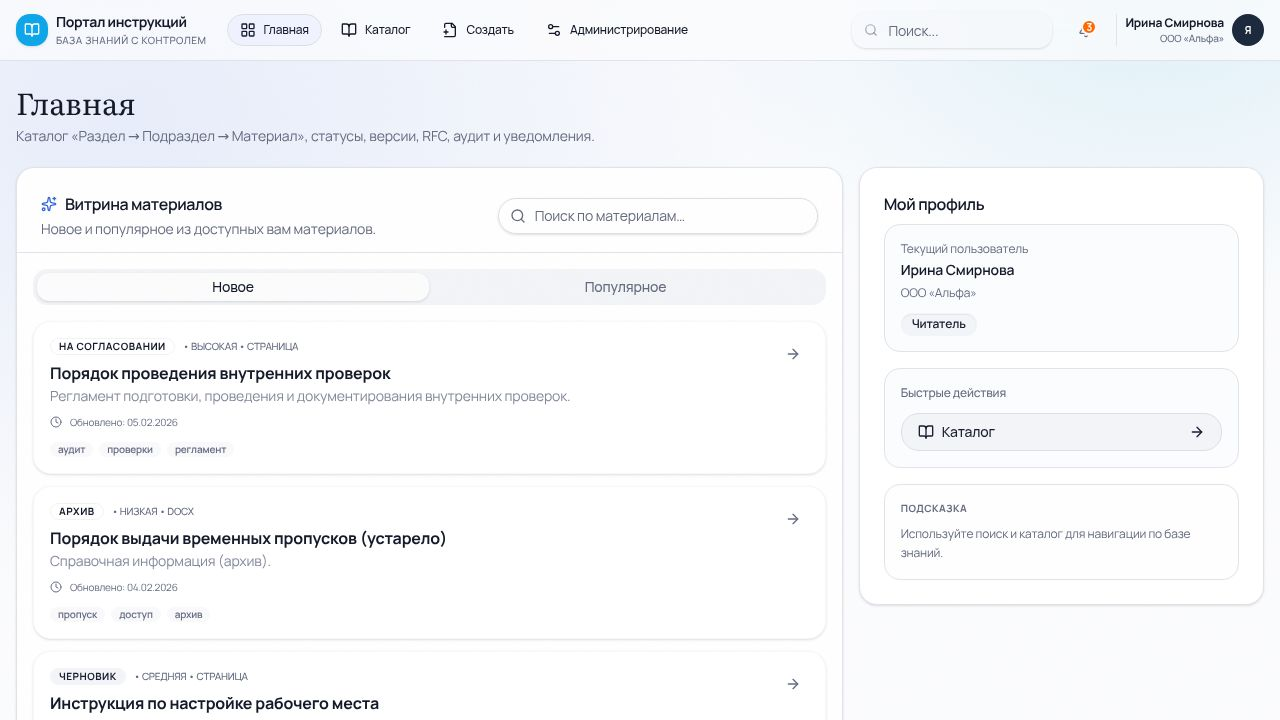
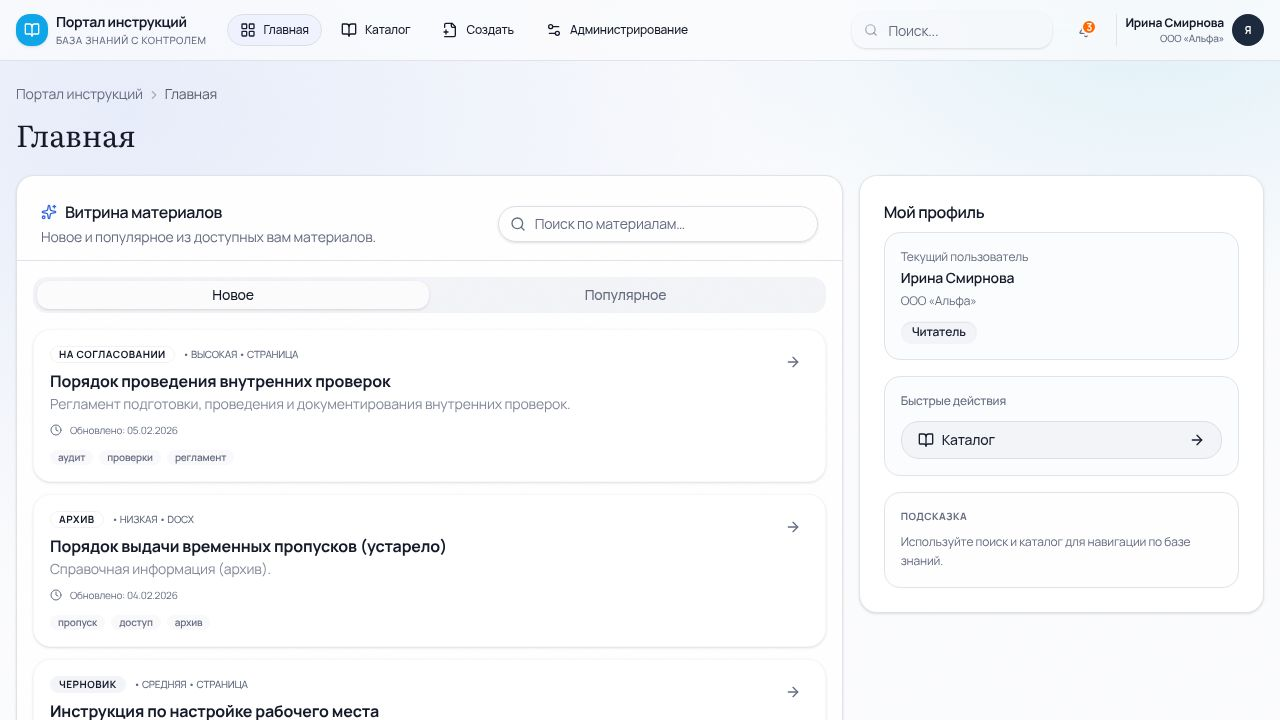
Add breadcrumbs to navigate through the documentation portal
Integrate breadcrumb navigation components into AppShell and apply them to Home, Catalog, Admin, and Material-View pages, enhancing user navigation.

Replit-Commit-Author: Agent
Replit-Commit-Session-Id: 5f0e1606-4719-4190-bb81-36b9deb8bcca
Replit-Commit-Checkpoint-Type: full_checkpoint
Replit-Commit-Event-Id: e5610f33-af44-41aa-825b-11ddc4b73c94
Replit-Commit-Screenshot-Url: https://storage.googleapis.com/screenshot-production-us-central1/b9421ffa-43e4-4408-9767-8521d678e895/5f0e1606-4719-4190-bb81-36b9deb8bcca/5Bn09VN
Replit-Helium-Checkpoint-Created: true

diff --git a/client/src/components/kb/AppShell.tsx b/client/src/components/kb/AppShell.tsx
@@ -4,6 +4,7 @@ import {
   Bell,
   BookOpen,
   Building2,
+  ChevronRight,
   ClipboardCheck,
   FilePlus2,
   LayoutGrid,
@@ -153,18 +154,22 @@ function UserSwitch() {
   );
 }
 
+export type Breadcrumb = { label: string; href?: string };
+
 export function AppShell({
   title,
   children,
   search,
   onSearch,
   actions,
+  breadcrumbs,
 }: {
   title: string;
   children: React.ReactNode;
   search?: string;
   onSearch?: (v: string) => void;
   actions?: React.ReactNode;
+  breadcrumbs?: Breadcrumb[];
 }) {
   const [location] = useLocation();
   const active = useMemo(() => nav.find((n) => n.href === location)?.href, [location]);
@@ -295,14 +300,27 @@ export function AppShell({
       </header>
 
       <main className="mx-auto max-w-7xl px-4 py-6">
+        {breadcrumbs && breadcrumbs.length > 0 && (
+          <nav className="mb-3 flex items-center gap-1 text-sm text-muted-foreground" data-testid="nav-breadcrumbs">
+            {breadcrumbs.map((crumb, i) => (
+              <span key={i} className="flex items-center gap-1">
+                {i > 0 && <ChevronRight className="h-3.5 w-3.5 shrink-0 text-muted-foreground/50" />}
+                {crumb.href ? (
+                  <Link href={crumb.href} className="hover:text-foreground transition-colors">
+                    {crumb.label}
+                  </Link>
+                ) : (
+                  <span className="text-foreground/70">{crumb.label}</span>
+                )}
+              </span>
+            ))}
+          </nav>
+        )}
         <div className="mb-5 flex flex-col gap-3 md:flex-row md:items-end md:justify-between">
           <div>
             <h1 className="font-serif text-3xl leading-tight" data-testid="text-page-title">
               {title}
             </h1>
-            <p className="mt-1 text-sm text-muted-foreground">
-              Каталог «Раздел → Подраздел → Материал», статусы, версии, RFC, аудит и уведомления.
-            </p>
           </div>
           <div className="flex items-center gap-2">{actions}</div>
         </div>

diff --git a/client/src/pages/material-view.tsx b/client/src/pages/material-view.tsx
@@ -28,8 +28,8 @@ import { Tabs, TabsContent, TabsList, TabsTrigger } from "@/components/ui/tabs";
 import { Textarea } from "@/components/ui/textarea";
 import { useToast } from "@/hooks/use-toast";
 import { useKB } from "@/lib/kbStore";
-import { demoUsers, visibilityGroups } from "@/lib/mockData";
-import { canApproveAndPublish, canConfirmActuality, canPublishDirectly, canReturnForRevision, canSubmitForApproval, canViewAudit, canViewMaterial, daysToNextReview, isOverdue, validatePassport } from "@/lib/kbLogic";
+import { catalog, demoUsers, visibilityGroups } from "@/lib/mockData";
+import { canApproveAndPublish, canConfirmActuality, canPublishDirectly, canReturnForRevision, canSubmitForApproval, canViewAudit, canViewMaterial, daysToNextReview, getSectionPath, isOverdue, validatePassport } from "@/lib/kbLogic";
 
 function fmt(iso?: string) {
   if (!iso) return "—";
@@ -83,6 +83,25 @@ export default function MaterialView() {
 
   const rfcList = useMemo(() => rfcs.filter((r) => r.materialId === materialId), [rfcs, materialId]);
 
+  const sectionPath = useMemo(() => {
+    if (!current) return [];
+    return getSectionPath(catalog, current.passport.sectionId);
+  }, [current]);
+
+  const breadcrumbs = useMemo(() => {
+    const crumbs: { label: string; href?: string }[] = [
+      { label: "Портал инструкций", href: "/" },
+      { label: "Каталог", href: "/catalog" },
+    ];
+    sectionPath.forEach((node) => {
+      crumbs.push({ label: node.title });
+    });
+    if (current) {
+      crumbs.push({ label: current.passport.title });
+    }
+    return crumbs;
+  }, [sectionPath, current]);
+
   if (!current || !accessAllowed) {
     return (
       <AppShell title={current ? "Доступ ограничен" : "Материал не найден"}>
@@ -108,6 +127,7 @@ export default function MaterialView() {
   return (
     <AppShell
       title={current.passport.title}
+      breadcrumbs={breadcrumbs}
       actions={
         <div className="flex flex-wrap items-center gap-2">
           <Link href="/catalog">

diff --git a/client/src/pages/material-wizard.tsx b/client/src/pages/material-wizard.tsx
@@ -83,6 +83,11 @@ export default function MaterialWizard() {
   return (
     <AppShell
       title="Мастер создания материала"
+      breadcrumbs={[
+        { label: "Портал инструкций", href: "/" },
+        { label: "Каталог", href: "/catalog" },
+        { label: "Новый материал" },
+      ]}
       actions={
         <Link href="/catalog">
           <Button data-testid="button-wizard-back" variant="outline" className="rounded-xl">

diff --git a/client/src/pages/admin.tsx b/client/src/pages/admin.tsx
@@ -50,6 +50,7 @@ export default function Admin() {
   return (
     <AppShell
       title="Администрирование"
+      breadcrumbs={[{ label: "Портал инструкций", href: "/" }, { label: "Администрирование" }]}
       search={q}
       onSearch={setQ}
       actions={

diff --git a/client/src/pages/catalog.tsx b/client/src/pages/catalog.tsx
@@ -46,6 +46,7 @@ export default function Catalog() {
   return (
     <AppShell
       title="Каталог"
+      breadcrumbs={[{ label: "Портал инструкций", href: "/" }, { label: "Каталог" }]}
       search={q}
       onSearch={setQ}
       actions={

diff --git a/client/src/pages/home.tsx b/client/src/pages/home.tsx
@@ -173,6 +173,7 @@ export default function Home() {
   return (
     <AppShell
       title="Главная"
+      breadcrumbs={[{ label: "Портал инструкций", href: "/" }, { label: "Главная" }]}
       search={q}
       onSearch={setQ}
       actions={
